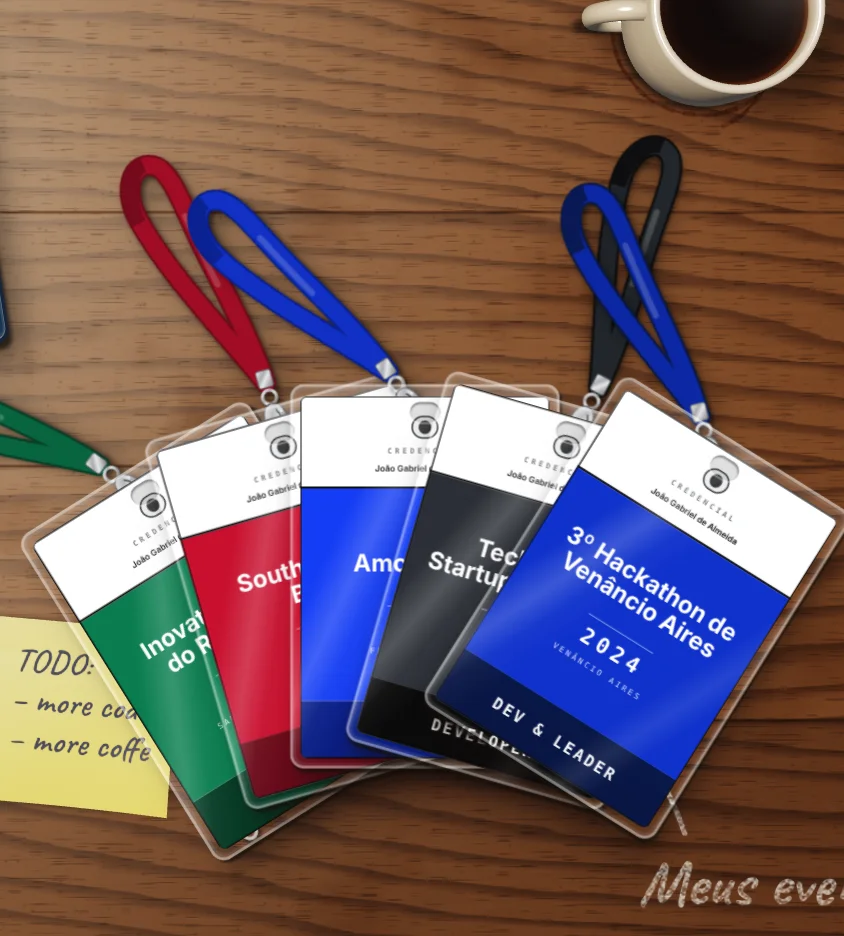
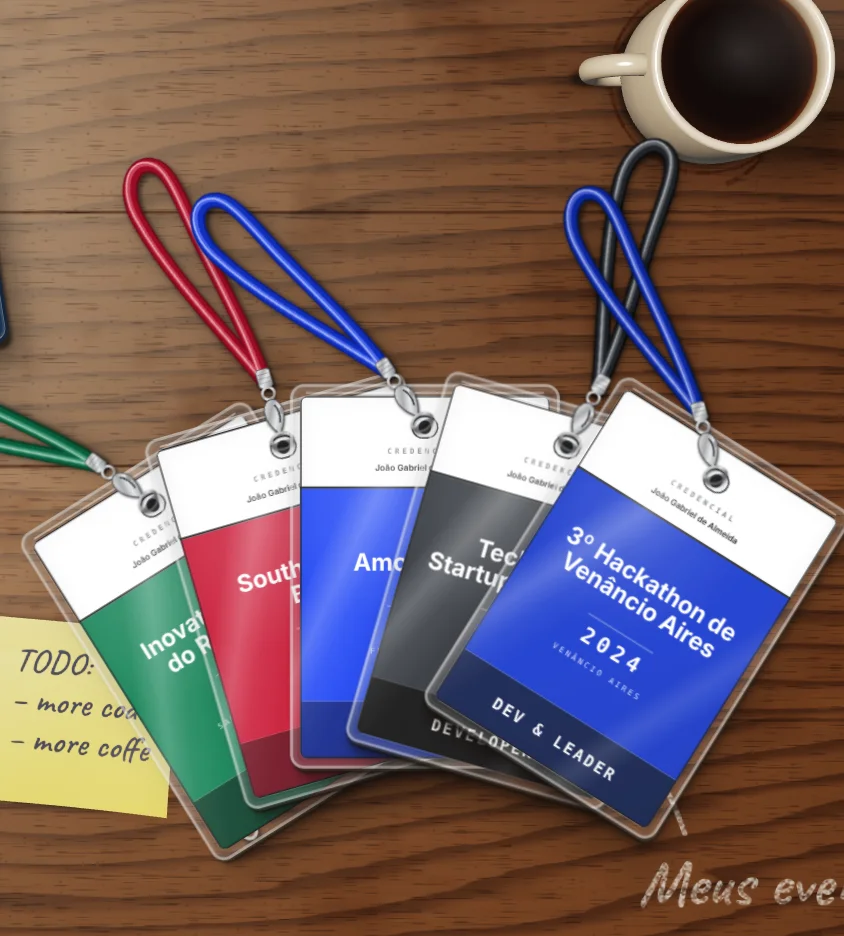
Round braided lanyard cords, one hole for the clasp, badges with body
- Cords are cylinders now: shaded underside, body, braid ticks, lit flank and a specular line,
  each offset towards the lamp; they swing about their crimp.
- The hardware sits over the badge and stays put: crimp, jump ring, lobster clasp and a split
  ring through the card's own slot. The vinyl holder is open at the top, so there is one hole.
- Badges: paper grain and the lamp's falloff across the print, and a vinyl pocket that bulges
  over the card, darkens into its welded seam, and shows its own thickness.

Claude-Session: https://claude.ai/code/session_01DGPQJLkKaiTJNxGHKv36ow

diff --git a/components/ui/desk-credentials.module.css b/components/ui/desk-credentials.module.css
@@ -11,32 +11,46 @@
 .pile:hover .credential, .pile:focus-within .credential { transform: translateZ(calc(var(--i) * 1px + 6px)) rotate(var(--fan)); }
 .pile .credential:hover, .pile .credential:focus-visible { transform: translateZ(calc(var(--i) * 1px + 12px)) rotate(var(--fan)) translateY(-8%); }
 .credential:focus-visible { outline: 3px solid #fff; outline-offset: 6px; border-radius: 4px; }
-/* The printed card; its shadow is the badge holder's, since the vinyl sleeve sits a little proud of it. */
+/* The printed card: a little paper grain and the lamp falling across it, so it reads as print, not a flat image. */
 .badge { position: relative; width: 100%; height: auto; border-radius: 4px; }
-/* Clear vinyl badge holder: slightly bigger than the card, with a welded rim, a punched slot and a soft glare. */
-.sleeve {
-  position: absolute; inset: -3.5% -4% -3% -4%; border-radius: 7px; pointer-events: none;
-  background:
-    linear-gradient(115deg, #fff0 26%, #ffffff30 34%, #ffffff0a 40%, #fff0 47%, #fff0 70%, #ffffff18 76%, #fff0 82%),
-    linear-gradient(#ffffff1c, #fff0 22%, #fff0 80%, #0000000f);
-  box-shadow: inset 0 0 0 1.5px #ffffff5c, inset 0 0 0 3px #ffffff12, inset 0 1px 6px #ffffff26,
-    1px 2px 1px #15100ab0, 4px 7px 9px #130b0866, 10px 16px 22px #130b0833;
+.credential::before {
+  content: ""; position: absolute; inset: 0; z-index: 1; border-radius: 4px; pointer-events: none;
+  background: linear-gradient(135deg, #fff2 0, #fff0 35%, #0000 60%, #0002), url(/textures/baked/paper.webp) 0 0 / 120px;
+  mix-blend-mode: multiply; opacity: .55;
 }
-.sleeve::before { /* the slot punched through the vinyl, lined up with the card's */
-  content: ""; position: absolute; left: 50%; top: 4.6%; width: 11%; height: 5.4%; translate: -50% 0; border-radius: 99px;
-  background: #0000001f; box-shadow: inset 0 1px 1px #0006, 0 1px 0 #ffffff59;
+/* Clear vinyl holder, open at the top (the card's own slot is the only hole). It is a pocket, not a sheet: the rim is
+   welded flat, the middle bulges over the card, so it darkens towards the seam and catches the lamp on the bulge. */
+.sleeve {
+  position: absolute; inset: -3.5% -4% -3% -4%; z-index: 2; border-radius: 7px; pointer-events: none;
+  background:
+    radial-gradient(ellipse 60% 45% at 34% 30%, #ffffff26, #fff0 70%),
+    linear-gradient(115deg, #fff0 24%, #ffffff3a 31%, #ffffff10 37%, #fff0 44%, #fff0 70%, #ffffff1c 75%, #fff0 81%),
+    linear-gradient(#0000 0 3%, #ffffff12 3.5%, #0000 9%);
+  box-shadow:
+    inset 0 0 0 1.5px #ffffff66, inset 0 0 0 3.5px #ffffff10, inset 0 0 0 4.5px #0000000d, /* rim, weld seam */
+    inset 0 0 10px 2px #00000026, inset 1px 1px 2px #ffffff40, /* the pocket curving down into the seam */
+    1px 2px 1px #15100ab0, 3px 5px 4px #130b0870, 9px 14px 18px #130b0840;
+}
+/* Open mouth of the pocket: the vinyl stops short of the top rim. */
+.sleeve::before {
+  content: ""; position: absolute; left: 6%; right: 6%; top: 2.2%; height: 1px; background: #ffffff70; box-shadow: 0 1px 1px #0003;
+}
+/* The sleeve's own thickness, as a sliver just below and right of it. */
+.sleeve::after {
+  content: ""; position: absolute; inset: 0; z-index: -1; border-radius: inherit; translate: .8px 1.2px; background: #ffffff1a;
 }
 .lanyard {
   position: absolute; left: 20%; bottom: 88%; width: 60%; height: 60%; overflow: visible; pointer-events: none;
-  rotate: calc(-14deg + var(--tilt) * 4); transform-origin: 50% 94%; filter: drop-shadow(1px 2px 1.2px #0008) drop-shadow(3px 6px 5px #0004);
+  rotate: calc(-14deg + var(--tilt) * 4); transform-origin: 50% 63%; /* swings about its crimp */ filter: drop-shadow(1px 2px 1.2px #0009) drop-shadow(3px 6px 5px #0004);
 }
-.ribbonEdge, .ribbon, .weave, .sheen, .twist { fill: none; stroke-linecap: round; }
-.twist { stroke: var(--dark); stroke-width: 6.6; stroke-linecap: butt; opacity: .85; }
-.ribbonEdge { stroke: var(--dark); stroke-width: 8.4; }
-.ribbon { stroke: var(--color); stroke-width: 6.6; }
-/* Woven polyester: fine cross ribs across the ribbon. */
-.weave { stroke: #0003; stroke-width: 6.6; stroke-dasharray: .45 .55; }
-.sheen { stroke: #ffffff2e; stroke-width: 2.4; }
+.clasp { z-index: 3; rotate: 0deg; filter: drop-shadow(.6px 1.2px .6px #000a); }
+.cordShade, .cordBody, .cordBraid, .cordLit, .cordSpec { fill: none; stroke-linecap: round; stroke-linejoin: round; }
+.cordShade { stroke: var(--dark); stroke-width: 6; }
+.cordBody { stroke: var(--color); stroke-width: 4.6; translate: -.2px -.25px; }
+/* Braided: short diagonal ticks along the cord. */
+.cordBraid { stroke: #0000003a; stroke-width: 4.6; stroke-dasharray: .5 .7; translate: -.2px -.25px; }
+.cordLit { stroke: color-mix(in srgb, var(--color), #fff 28%); stroke-width: 2; translate: -.75px -.95px; opacity: .8; }
+.cordSpec { stroke: #ffffff8c; stroke-width: .6; translate: -1.15px -1.45px; }
 /* no hover on phones: keep the fan open, and counter the desk's 90deg turn so badges read upright */
 @media (max-width: 640px) and (orientation: portrait) {
   .pile { left: 95%; top: 32%; }

diff --git a/components/ui/desk-credentials.tsx b/components/ui/desk-credentials.tsx
@@ -6,24 +6,36 @@ import events from "@/lib/events.json";
 import EvidenceBoard from "./evidence-board";
 import styles from "./desk-credentials.module.css";
 
-// Lanyard laid flat on the desk: a woven ribbon loop crimped into a split ring, and a lobster clasp hooked through
-// the badge's punched slot. Drawn in a box above the badge (60% of its width, 87 units = 0.87 badge widths tall);
-// the loop runs on past the box, the way a long lanyard lies folded beside its badge.
+// Round braided cord laid flat on the desk, folded back on itself beside its badge, ending in a crimp. Drawn in a box
+// above the badge (60% of its width, 87 units = 0.87 badge widths tall; the loop runs on past it). The cord is a
+// cylinder lit from the top left: dark underside, body, lit flank and a specular line, each offset towards the lamp.
+const CORD = "M30 55 C21 33 5 4 -1 -22 C-4 -36 4 -46 12 -40 C18 -35 18 -16 22 2 C25 18 29 36 30 55";
 function Lanyard() {
-  const loop = "M30 55 C21 33 5 4 -1 -22 C-4 -36 4 -46 12 -40 C18 -35 18 -16 22 2 C25 18 29 36 30 55";
   return (
     <svg className={styles.lanyard} viewBox="0 0 60 87" aria-hidden="true">
-      <path d={loop} className={styles.ribbonEdge} />
-      <path d={loop} className={styles.ribbon} />
-      <path d={loop} className={styles.weave} />
-      {/* where the ribbon lies twisted, its unprinted back shows */}
-      <path d="M-1.5 -20 C-3.5 -32 1 -42 7 -42.5" className={styles.twist} />
-      <path d="M17.5 -18 C19 -8 20.5 2 22.5 12" className={styles.sheen} />
-      <rect x="27" y="50" width="6" height="7" rx="1" fill="url(#credential-metal)" stroke="#5c5d5f" strokeWidth=".4" />
-      <circle cx="30" cy="61" r="2.8" fill="none" stroke="url(#credential-metal)" strokeWidth="1.3" />
-      <path d="M30 63.5 C25.8 64 25 69.5 26.2 73.5 C27.2 77 29 79 30 82 C31 79 32.8 77 33.8 73.5 C35 69.5 34.2 64 30 63.5 Z" fill="url(#credential-metal)" stroke="#55565a" strokeWidth=".45" />
-      <path d="M31.2 66.5 C32.6 68.5 32.6 72.5 31.5 75" fill="none" stroke="#2c2d30" strokeWidth=".7" strokeLinecap="round" />
-      <rect x="32.6" y="68" width="1.6" height="3" rx=".4" fill="#9b9ca0" />
+      <path d={CORD} className={styles.cordShade} />
+      <path d={CORD} className={styles.cordBody} />
+      <path d={CORD} className={styles.cordBraid} />
+      <path d={CORD} className={styles.cordLit} />
+      <path d={CORD} className={styles.cordSpec} />
+    </svg>
+  );
+}
+
+// The hardware, drawn over the badge: crimp, jump ring, lobster clasp and the split ring that goes through the card's
+// own punched slot (the only hole: the vinyl holder is open at the top).
+function Clasp() {
+  return (
+    <svg className={`${styles.lanyard} ${styles.clasp}`} viewBox="0 0 60 87" aria-hidden="true">
+      <rect x="27.2" y="49.5" width="5.6" height="7.5" rx="1.2" fill="url(#credential-metal)" stroke="#5c5d5f" strokeWidth=".35" />
+      <path d="M27.6 51.5 H32.4 M27.6 53.2 H32.4 M27.6 54.9 H32.4" stroke="#0004" strokeWidth=".35" />
+      <circle cx="30" cy="59.5" r="2.4" fill="none" stroke="url(#credential-metal)" strokeWidth="1.1" />
+      <path d="M30 62 C26.4 62.4 25.7 67 26.7 70.4 C27.5 73.2 29 74.9 30 76.6 C31 74.9 32.5 73.2 33.3 70.4 C34.3 67 33.6 62.4 30 62 Z" fill="url(#credential-metal)" stroke="#55565a" strokeWidth=".4" />
+      <path d="M31 64.6 C32.2 66.3 32.2 69.6 31.3 71.8" fill="none" stroke="#2c2d30" strokeWidth=".6" strokeLinecap="round" />
+      <rect x="32.3" y="66.2" width="1.4" height="2.6" rx=".35" fill="#9b9ca0" />
+      {/* split ring threaded through the slot: the top arcs over the card, the bottom runs dim inside the hole */}
+      <path d="M28.2 82.4 A2.5 2.9 0 0 0 31.8 82.4" fill="none" stroke="#4b4c4f" strokeWidth=".9" strokeLinecap="round" />
+      <path d="M28.2 82.4 A2.5 2.9 0 1 1 31.8 82.4" fill="none" stroke="url(#credential-metal)" strokeWidth="1" strokeLinecap="round" />
     </svg>
   );
 }
@@ -53,6 +65,7 @@ export default function DeskCredentials() {
           <Lanyard />
           <Image className={styles.badge} src={`/credentials/${event.id}.svg`} alt="" width={1000} height={1450} draggable={false} />
           <span className={styles.sleeve} aria-hidden="true" />
+          <Clasp />
         </button>
       ))}
       {open && <EvidenceBoard key={open.id} event={open} onClose={() => setOpen(undefined)} />}
